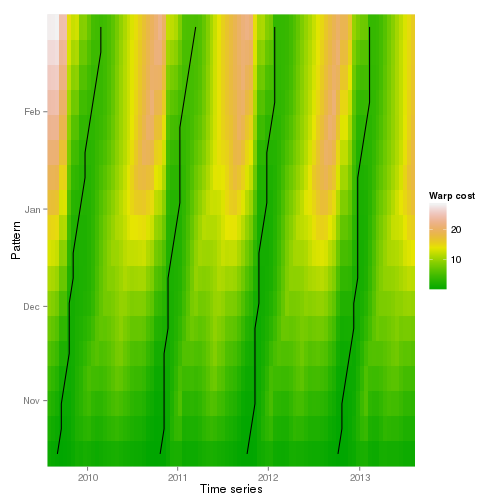
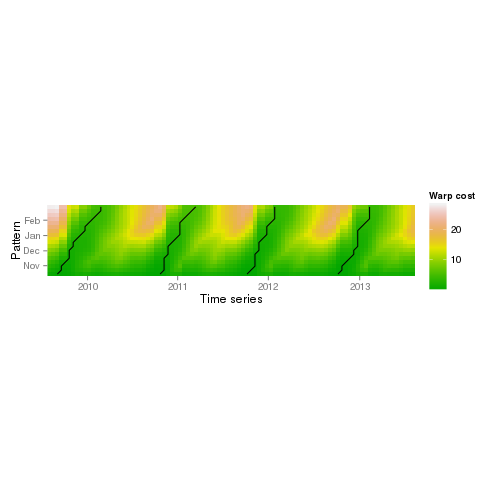
Update documentation

diff --git a/README.md b/README.md
@@ -35,7 +35,7 @@ names(query.list)
 
 ```r
 alig = twdtw(query.list[["Soybean"]], template, 
-             weight = "logistic", alpha = 0.1, beta = 50, alignments=4, keep=TRUE)
+             weight = "logistic", alpha = 0.1, beta = 50, alignments=4, keep=TRUE) 
 print(alig)
 ```
 
@@ -50,7 +50,8 @@ print(alig)
 ```
 
 ```r
-plot(alig)
+gp = plot(alig) 
+gp + coord_fixed()
 ```
 
 ![plot of chunk define-demo-code](figure/define-demo-code-1.png) 
